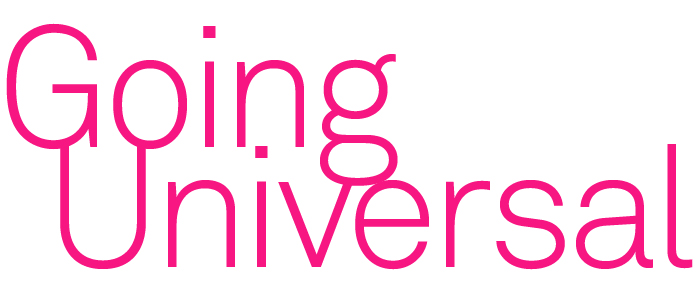
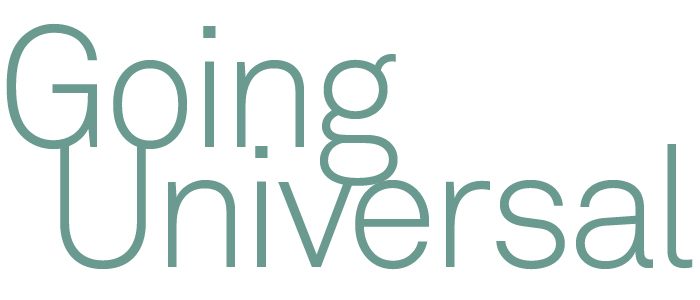
new color for new media eblast

Changed region(s): [[0.0, 0.06, 0.99, 0.9], [0.27, 0.09, 0.33, 0.12]]

diff --git a/AP/AP1516/AP_new_media/AP_new_media.html b/AP/AP1516/AP_new_media/AP_new_media.html
@@ -5,8 +5,8 @@
         <title>New Media Seminar</title>
         <style type="text/css">
         body {margin: 0; padding: 0; min-width: 100%!important; color:#333;}
-        a {color:#F71682;}
-        .colorText{color:#F71682;}
+        a {color:#6A9A90;}
+        .colorText{color:#6A9A90;}
         img {display:block;}
         a img {border:none;}
         .content {width: 740px; padding:20px; font-family: Arial, sans-serif; font-size:13px;}
